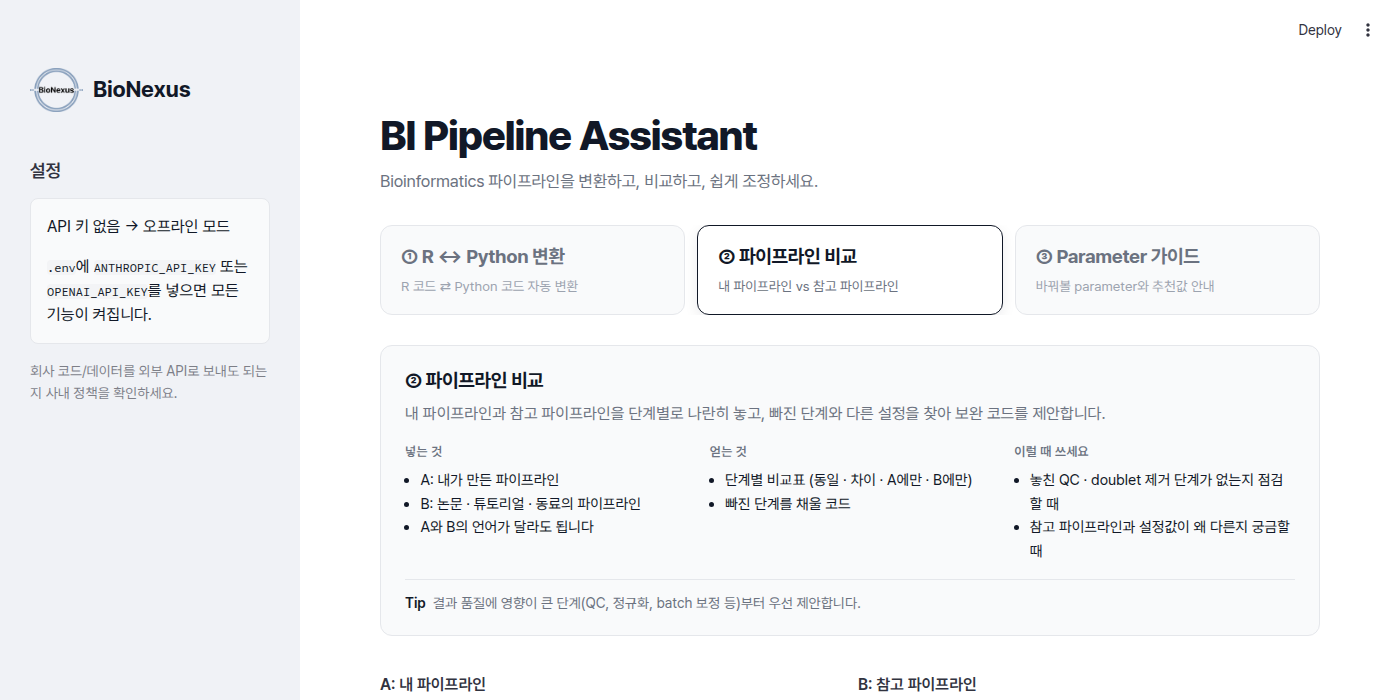
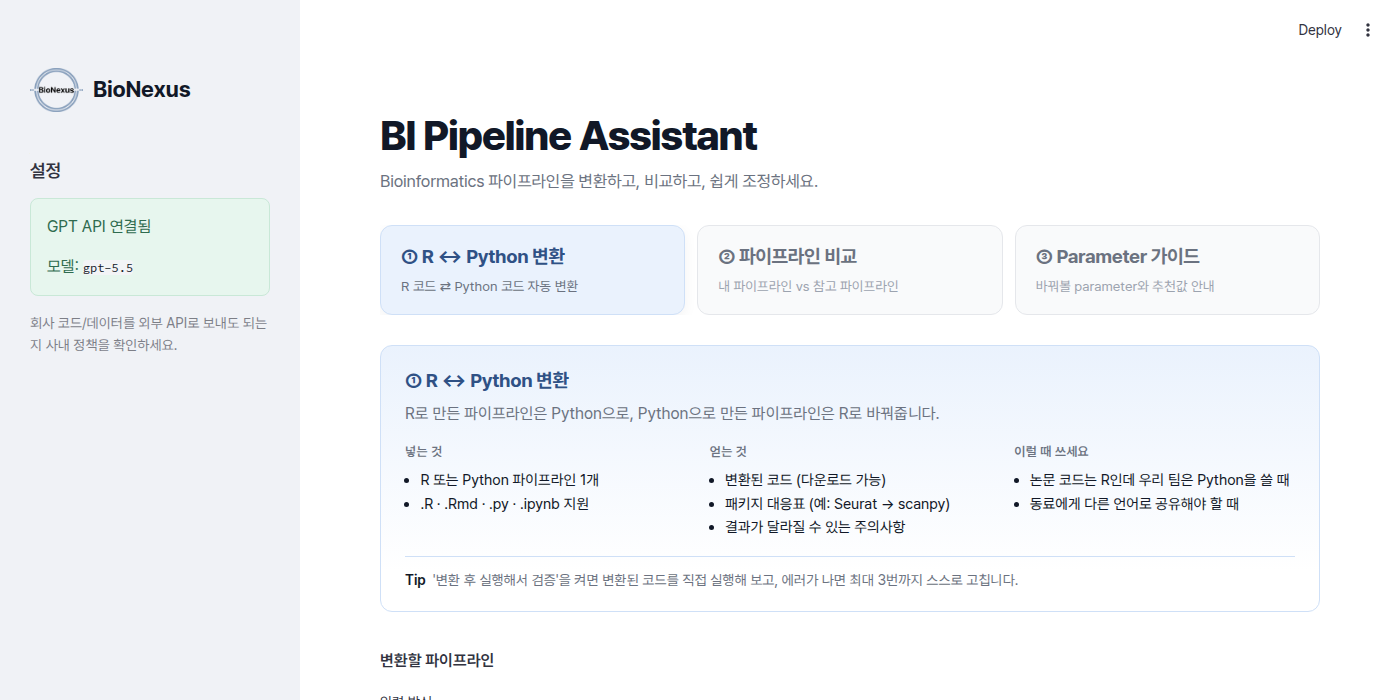
Add soft pastel colours, mainly to results
- Pastel palette (light backgrounds, muted same-hue text) defined once in ui.py
- Comparison: status count chips and pastel status column in the table
- Parameter guide: pastel line highlights, importance legend and badges
- Conversion: success/fail badges, caveats in a soft amber box
- Light per-tab tint on selected tab and intro card; pastel info/success/warning boxes
- README: results screenshot and colour customization notes

Claude-Session: https://claude.ai/code/session_01QAVdYEPsvRe7F2T4y4nPq8

diff --git a/bi_assistant/ui.py b/bi_assistant/ui.py
@@ -9,7 +9,31 @@ ASSETS_DIR = Path(__file__).parent.parent / "assets"
 LOGO_PATH = ASSETS_DIR / "bionexus_logo.png"
 COMPANY_NAME = "BioNexus"
 
-# Neutral palette: near-black text, grey surfaces, no accent colours.
+# Soft pastel palette: light backgrounds with muted text of the same hue.
+PASTEL = {
+    "blue":   {"bg": "#eaf2fd", "border": "#cfe0f7", "text": "#2f5185"},
+    "violet": {"bg": "#f1ecfb", "border": "#ddd2f3", "text": "#5a4690"},
+    "mint":   {"bg": "#e7f6ee", "border": "#c9e8d7", "text": "#2f6b4f"},
+    "rose":   {"bg": "#fdecec", "border": "#f5d0d0", "text": "#9a3f3f"},
+    "amber":  {"bg": "#fdf4e2", "border": "#f2e0b8", "text": "#86621b"},
+}
+
+# Parameter importance: code-line highlight + Streamlit badge for labels.
+IMPORTANCE = {
+    "high":   {"bg": PASTEL["rose"]["bg"],  "badge": ":red-badge[중요도 높음]",   "label": "중요도 높음", "tone": "rose"},
+    "medium": {"bg": PASTEL["amber"]["bg"], "badge": ":orange-badge[중요도 보통]", "label": "중요도 보통", "tone": "amber"},
+    "low":    {"bg": PASTEL["blue"]["bg"],  "badge": ":blue-badge[중요도 낮음]",   "label": "중요도 낮음", "tone": "blue"},
+}
+
+# Pipeline comparison status.
+STATUS = {
+    "both_same":      {"label": "동일",   "tone": "mint"},
+    "both_different": {"label": "차이",   "tone": "amber"},
+    "only_a":         {"label": "A에만", "tone": "blue"},
+    "only_b":         {"label": "B에만", "tone": "violet"},
+}
+_STATUS_BY_LABEL = {v["label"]: v["tone"] for v in STATUS.values()}
+
 THEME_CSS = """
 <style>
 :root {
@@ -40,12 +64,15 @@ THEME_CSS = """
 [data-testid="stTabs"] .react-aria-SelectionIndicator,
 [data-testid="stTabs"] [role="tablist"]::after { display: none; }
 [data-testid="stTab"] {
+  --bi-tab-bg: #eaf2fd; --bi-tab-border: #cfe0f7; --bi-tab-text: #2f5185;
   display: flex; flex-direction: column; align-items: flex-start; justify-content: center;
   height: auto; padding: 16px 20px; border-radius: 12px;
   border: 1px solid var(--bi-border); background: var(--bi-surface);
   transition: border-color .15s, background .15s, box-shadow .15s;
 }
-[data-testid="stTab"]:hover { border-color: #9ca3af; }
+[data-testid="stTab"]:nth-child(2) { --bi-tab-bg: #f1ecfb; --bi-tab-border: #ddd2f3; --bi-tab-text: #5a4690; }
+[data-testid="stTab"]:nth-child(3) { --bi-tab-bg: #e7f6ee; --bi-tab-border: #c9e8d7; --bi-tab-text: #2f6b4f; }
+[data-testid="stTab"]:hover { border-color: var(--bi-tab-border); }
 [data-testid="stTab"] p {
   font-family: var(--bi-font); font-size: 1.2rem; font-weight: 700; letter-spacing: -.02em;
   color: var(--bi-muted);
@@ -57,18 +84,22 @@ THEME_CSS = """
 [data-testid="stTab"]:nth-child(2)::after { content: "내 파이프라인 vs 참고 파이프라인"; }
 [data-testid="stTab"]:nth-child(3)::after { content: "바꿔볼 parameter와 추천값 안내"; }
 [data-testid="stTab"][aria-selected="true"] {
-  background: #fff; border: 1.5px solid var(--bi-text); box-shadow: 0 4px 14px rgba(17, 24, 39, .08);
+  background: var(--bi-tab-bg); border: 1.5px solid var(--bi-tab-border);
+  box-shadow: 0 4px 14px rgba(17, 24, 39, .05);
 }
-[data-testid="stTab"][aria-selected="true"] p { color: var(--bi-text); }
+[data-testid="stTab"][aria-selected="true"] p { color: var(--bi-tab-text); }
 [data-testid="stTab"][aria-selected="true"]::after { color: var(--bi-muted); }
 
 /* ---------- feature intro card (top of each tab) ---------- */
 .bi-intro {
   font-family: var(--bi-font); color: var(--bi-text);
-  border: 1px solid var(--bi-border); border-radius: 12px; padding: 20px 24px; margin: 8px 0 20px;
-  background: var(--bi-surface);
+  border: 1px solid var(--bi-intro-border); border-radius: 12px; padding: 20px 24px; margin: 8px 0 20px;
+  background: linear-gradient(180deg, var(--bi-intro-bg) 0%, #fff 85%);
 }
-.bi-intro h3 { margin: 0 0 4px; padding: 0; font-size: 1.2rem; font-weight: 700; letter-spacing: -.02em; }
+.bi-intro h3 {
+  margin: 0 0 4px; padding: 0; font-size: 1.2rem; font-weight: 700; letter-spacing: -.02em;
+  color: var(--bi-intro-text);
+}
 .bi-intro .bi-lead { font-size: 1rem; margin: 0 0 16px; color: var(--bi-muted); }
 .bi-intro-grid { display: grid; grid-template-columns: repeat(3, 1fr); gap: 24px; }
 .bi-intro-grid h4 {
@@ -77,20 +108,34 @@ THEME_CSS = """
 }
 .bi-intro-grid ul { margin: 0; padding-left: 1.05em; font-size: .92rem; line-height: 1.6; }
 .bi-intro .bi-tip {
-  margin: 16px 0 0; padding-top: 12px; border-top: 1px solid var(--bi-border);
+  margin: 16px 0 0; padding-top: 12px; border-top: 1px solid var(--bi-intro-border);
   font-size: .88rem; color: var(--bi-muted);
 }
 .bi-intro .bi-tip b { color: var(--bi-text); font-weight: 600; }
 /* inline code: neutral instead of Streamlit's green */
 [data-testid="stMarkdownContainer"] code { color: var(--bi-text); background: #f3f4f6; }
 
-/* ---------- status/info boxes: neutral grey (errors stay red) ---------- */
-[data-testid="stAlertContainer"]:has([data-testid="stAlertContentInfo"],
-  [data-testid="stAlertContentSuccess"], [data-testid="stAlertContentWarning"]) {
-  background: var(--bi-surface) !important; border: 1px solid var(--bi-border);
+/* ---------- status/info boxes: soft pastel (errors keep Streamlit's red) ---------- */
+[data-testid="stAlertContainer"]:has([data-testid="stAlertContentInfo"]) {
+  background: #eaf2fd !important; border: 1px solid #cfe0f7;
 }
-[data-testid="stAlertContentInfo"], [data-testid="stAlertContentSuccess"],
-[data-testid="stAlertContentWarning"] { color: var(--bi-text) !important; }
+[data-testid="stAlertContainer"]:has([data-testid="stAlertContentSuccess"]) {
+  background: #e7f6ee !important; border: 1px solid #c9e8d7;
+}
+[data-testid="stAlertContainer"]:has([data-testid="stAlertContentWarning"]) {
+  background: #fdf4e2 !important; border: 1px solid #f2e0b8;
+}
+[data-testid="stAlertContentInfo"] { color: #2f5185 !important; }
+[data-testid="stAlertContentSuccess"] { color: #2f6b4f !important; }
+[data-testid="stAlertContentWarning"] { color: #86621b !important; }
+
+/* ---------- result helpers ---------- */
+.bi-chips { display: flex; flex-wrap: wrap; gap: 8px; margin: 4px 0 10px; font-family: var(--bi-font); }
+.bi-chip {
+  display: inline-flex; align-items: center; gap: 6px; padding: 4px 12px; border-radius: 999px;
+  font-size: .85rem; font-weight: 600; border: 1px solid;
+}
+.bi-chip b { font-weight: 800; }
 
 @media (max-width: 900px) {
   [data-testid="stTabs"] [role="tablist"], .bi-intro-grid { grid-template-columns: 1fr; }
@@ -208,8 +253,10 @@ def feature_intro_html(index: int) -> str:
     def items(xs):
         return "".join(f"<li>{x}</li>" for x in xs)
 
+    tone = PASTEL[["blue", "violet", "mint"][index]]
     return (
-        '<div class="bi-intro">'
+        f'<div class="bi-intro" style="--bi-intro-bg:{tone["bg"]};--bi-intro-border:{tone["border"]};'
+        f'--bi-intro-text:{tone["text"]}">'
         f'<h3>{f["title"]}</h3><p class="bi-lead">{f["lead"]}</p>'
         '<div class="bi-intro-grid">'
         f'<div><h4>넣는 것</h4><ul>{items(f["input"])}</ul></div>'
@@ -217,3 +264,30 @@ def feature_intro_html(index: int) -> str:
         f'<div><h4>이럴 때 쓰세요</h4><ul>{items(f["when"])}</ul></div>'
         f'</div><p class="bi-tip"><b>Tip</b>&nbsp;&nbsp;{f["tip"]}</p></div>'
     )
+
+
+def _chip(tone: str, text: str) -> str:
+    t = PASTEL[tone]
+    return f'<span class="bi-chip" style="background:{t["bg"]};border-color:{t["border"]};color:{t["text"]}">{text}</span>'
+
+
+def importance_legend_html() -> str:
+    return '<div class="bi-chips">' + "".join(_chip(v["tone"], v["label"]) for v in IMPORTANCE.values()) + "</div>"
+
+
+def status_summary_html(statuses: list[str]) -> str:
+    """Count chips above the comparison table, e.g. '차이 3'."""
+    chips = [
+        _chip(v["tone"], f'{v["label"]} <b>{statuses.count(key)}</b>')
+        for key, v in STATUS.items()
+    ]
+    return '<div class="bi-chips">' + "".join(chips) + "</div>"
+
+
+def status_cell_style(label: str) -> str:
+    """pandas Styler cell style for the comparison table's status column."""
+    tone = _STATUS_BY_LABEL.get(label)
+    if tone is None:
+        return ""
+    t = PASTEL[tone]
+    return f"background-color: {t['bg']}; color: {t['text']}; font-weight: 600"

diff --git a/app.py b/app.py
@@ -7,6 +7,7 @@ import hashlib
 import html
 from pathlib import Path
 
+import pandas as pd
 import streamlit as st
 
 from bi_assistant import config, ui
@@ -75,8 +76,7 @@ def show_ir(ir) -> None:
 
 def highlighted_code(code: str, lines: dict[int, str]) -> str:
     """HTML <pre> with given line numbers highlighted by importance colour."""
-    # neutral greys: darker = more important
-    colours = {"high": "rgba(17,24,39,.14)", "medium": "rgba(17,24,39,.08)", "low": "rgba(17,24,39,.04)"}
+    colours = {k: v["bg"] for k, v in ui.IMPORTANCE.items()}
     rows = []
     for i, line in enumerate(code.splitlines(), 1):
         bg = colours.get(lines.get(i, ""), "transparent")
@@ -85,8 +85,10 @@ def highlighted_code(code: str, lines: dict[int, str]) -> str:
             f'width:3em">{i}</span>{html.escape(line) or "&nbsp;"}</div>'
         )
     return (
-        '<pre style="font-family:ui-monospace,Menlo,Consolas,monospace;font-size:13px;line-height:1.45;padding:12px;border-radius:8px;'
-        'overflow-x:auto;background:rgba(127,127,127,.08)">' + "".join(rows) + "</pre>"
+        ui.importance_legend_html()
+        + '<pre style="font-family:ui-monospace,Menlo,Consolas,monospace;font-size:13px;line-height:1.45;'
+        'padding:12px;border-radius:10px;overflow-x:auto;background:#fafafa;border:1px solid #eef0f3">'
+        + "".join(rows) + "</pre>"
     )
 
 
@@ -147,8 +149,8 @@ with tab_convert:
                     with st.spinner("실행 검증 중..."):
                         log = converter.verify_and_fix(source, result)
                     for i, run in enumerate(log.rounds, 1):
-                        icon = "성공" if run.ok else "실패"
-                        with st.expander(f"실행 {i}회차 · {icon}"):
+                        icon = ":green-badge[성공]" if run.ok else ":red-badge[실패]"
+                        with st.expander(f"{icon} 실행 {i}회차"):
                             st.code(run.stderr or run.stdout or "(출력 없음)")
                     result = log.final
                 return result
@@ -167,8 +169,8 @@ with tab_convert:
                     st.dataframe([m.model_dump() for m in result.package_mapping], hide_index=True)
                 with c2:
                     st.markdown("**주의사항**")
-                    for c in result.caveats:
-                        st.markdown(f"- {c}")
+                    if result.caveats:
+                        st.warning("\n".join(f"- {c}" for c in result.caveats))
 
 # ② Comparison
 with tab_compare:
@@ -187,13 +189,16 @@ with tab_compare:
         result = run_safely(_compare)
         if result:
             st.info(result.summary)
-            badge = {"both_same": "동일", "both_different": "차이", "only_a": "A에만", "only_b": "B에만"}
-            st.dataframe(
+            rows = pd.DataFrame(
                 [
-                    {"카테고리": m.category, "상태": badge[m.status], "A": m.a_step or "—",
+                    {"상태": ui.STATUS[m.status]["label"], "카테고리": m.category, "A": m.a_step or "—",
                      "B": m.b_step or "—", "차이점": " / ".join(m.differences)}
                     for m in result.matches
-                ],
+                ]
+            )
+            st.html(ui.status_summary_html([m.status for m in result.matches]))
+            st.dataframe(
+                rows.style.map(ui.status_cell_style, subset=["상태"]),
                 use_container_width=True,
                 hide_index=True,
             )
@@ -202,7 +207,8 @@ with tab_compare:
                 items = [s for s in result.suggestions if s.target == target]
                 if not items:
                     continue
-                st.markdown(f"#### {target}에 추가하면 좋은 것")
+                color = "blue" if target == "A" else "violet"
+                st.markdown(f"#### :{color}-badge[{target}] 에 추가하면 좋은 것")
                 src = src_a if target == "A" else src_b
                 for s in items:
                     where = f" · `{s.insert_after_step}` 다음" if s.insert_after_step else ""
@@ -221,7 +227,7 @@ with tab_params:
             guide = param_advisor.offline_guide(source)
         if guide:
             st.info(guide.summary)
-            levels = {"high": "중요도 높음", "medium": "중요도 보통", "low": "중요도 낮음"}
+            levels = {k: v["badge"] for k, v in ui.IMPORTANCE.items()}
             code_col, list_col = st.columns([3, 2])
             with code_col:
                 marks = {}
@@ -236,9 +242,9 @@ with tab_params:
                         st.markdown(f"**함수**: `{p.function}`" + (f" · **단계**: {p.step}" if p.step else ""))
                         st.write(p.what_it_does)
                         if p.effect_of_increase:
-                            st.markdown(f"⬆ 올리면: {p.effect_of_increase}")
+                            st.markdown(f":blue-badge[올리면] {p.effect_of_increase}")
                         if p.effect_of_decrease:
-                            st.markdown(f"⬇ 내리면: {p.effect_of_decrease}")
+                            st.markdown(f":orange-badge[내리면] {p.effect_of_decrease}")
                         st.markdown("**추천 후보**")
                         for c in p.candidates:
                             st.markdown(f"- `{c.value}`" + (f" — {c.when_to_use}" if c.when_to_use else ""))
